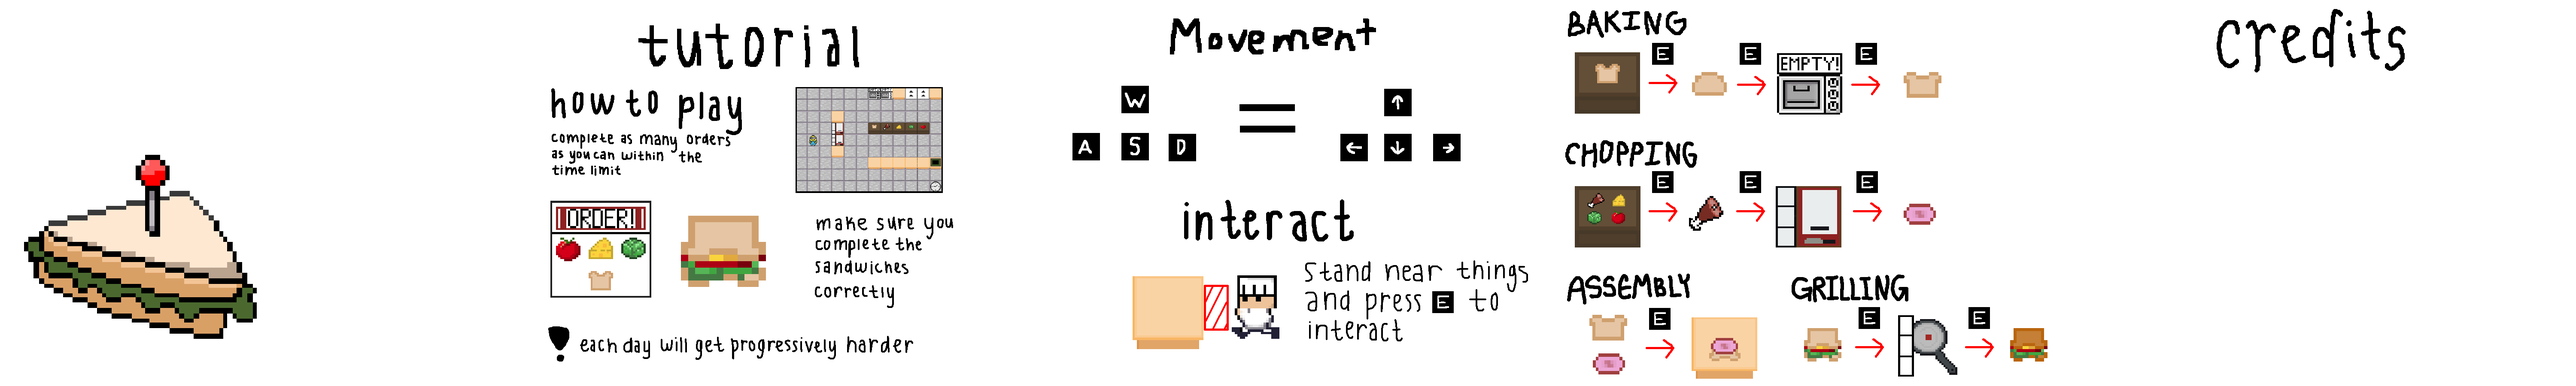
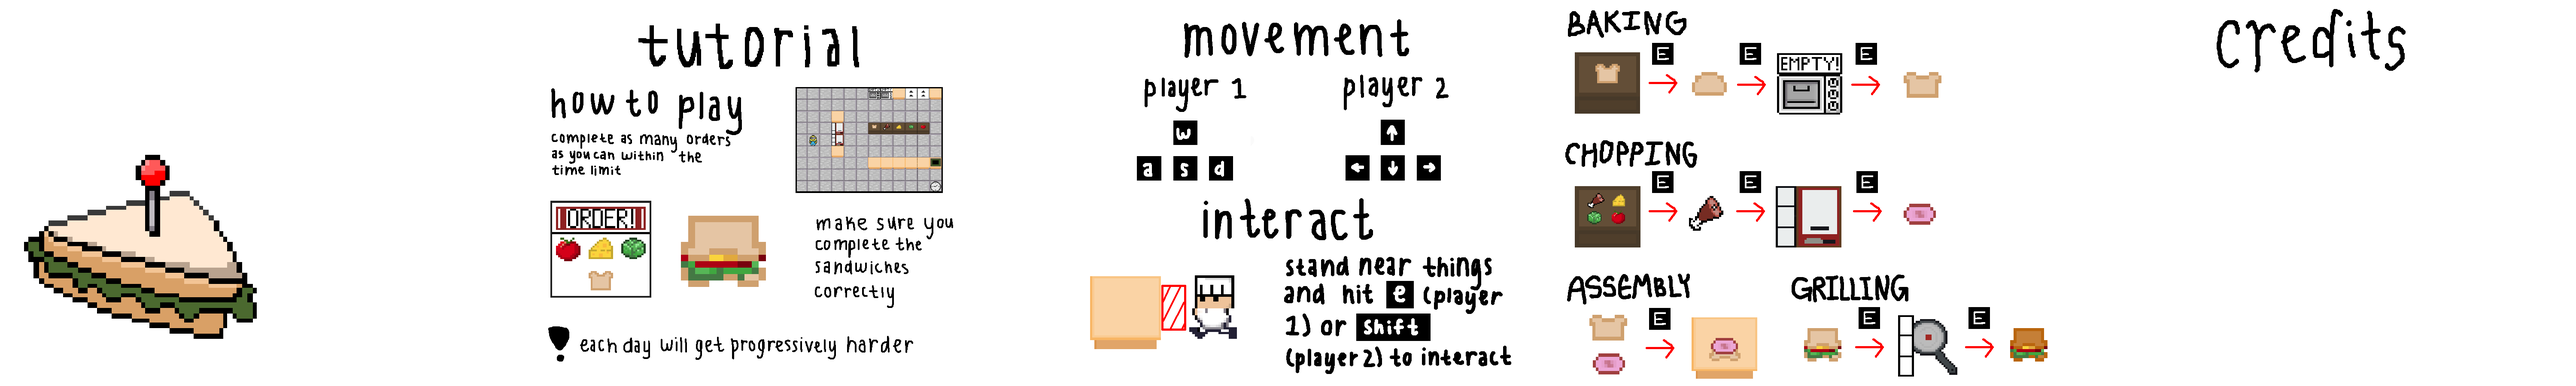
Map changes + updated tutorial + hitbox test
(1) Added a counter to Day3 map
(2) Added barrier collisions to Day4-5
(3) Fixed ketchup/mustard locations on (4) Day5
(5) Added class to draw collision & interact rectangles for testing
(6) Updated menu spritesheet with new tutorial

forgot to say this on previous commit -all appliances can now be interacted with in all directions

diff --git a/core/src/com/mygdx/game/DayScreen.java b/core/src/com/mygdx/game/DayScreen.java
@@ -21,6 +21,7 @@ import com.mygdx.game.appliance.*;
 import com.mygdx.game.holdable.Holdable;
 import com.mygdx.game.holdable.Ingredient;
 
+import java.awt.*;
 import java.text.DecimalFormat;
 import java.util.Iterator;
 
@@ -46,24 +47,21 @@ public class DayScreen implements Screen {
     static final int tileWidth = screenWidth / numWidthTiles;
     static final int tileHeight = screenHeight / numHeightTiles;
 
-    DayState dayState;
+    private DayState dayState;
 
-    OrthographicCamera camera;
+    private OrthographicCamera camera;
     private TiledMap tiledMap;
     private TiledMapRenderer tiledMapRenderer;
 
-    Player player, playerTwo;
+    private Player player, playerTwo;
     private boolean pressE, pressShift;
     private Array<Appliance> appliances;
 
     // for drawing orders
-    Texture breadTex = new Texture(Gdx.files.internal("Ingredients/breadSlice.png"));
-    Texture hamTex = new Texture(Gdx.files.internal("Ingredients/ham.png"));
-    Texture cheeseTex = new Texture(Gdx.files.internal("Ingredients/cheese.png"));
-    Texture lettuceTex = new Texture(Gdx.files.internal("Ingredients/lettuce.png"));
-    Texture tomatoTex = new Texture(Gdx.files.internal("Ingredients/tomato.png"));
+    private Texture orderTex, breadTex, hamTex, cheeseTex, lettuceTex, tomatoTex;
 
-    Texture orderTex;
+    // testing
+    private static HitboxDrawer hitboxDrawer;
 
     exampleMusic bgMusic;
 
@@ -89,14 +87,20 @@ public class DayScreen implements Screen {
                 appliances = getDay5Apps();
                 break;
         }
-        orderTex = new Texture(Gdx.files.internal("Orders/Sprite-Order_Blank.png"));
 
         camera = new OrthographicCamera();
         camera.setToOrtho(false, numWidthTiles, numHeightTiles);
         camera.update();
 
         tiledMap = new TmxMapLoader().load(dayState.mapFile);
-        tiledMapRenderer = new OrthogonalTiledMapRenderer(tiledMap, 1 / 32f); // unit scale is probably wrong
+        tiledMapRenderer = new OrthogonalTiledMapRenderer(tiledMap, 1 / 32f); // unit scale is probably wrong\
+
+        orderTex = new Texture(Gdx.files.internal("Orders/Sprite-Order_Blank.png"));
+        breadTex = new Texture(Gdx.files.internal("Ingredients/breadSlice.png"));
+        hamTex = new Texture(Gdx.files.internal("Ingredients/ham.png"));
+        cheeseTex = new Texture(Gdx.files.internal("Ingredients/cheese.png"));
+        lettuceTex = new Texture(Gdx.files.internal("Ingredients/lettuce.png"));
+        tomatoTex = new Texture(Gdx.files.internal("Ingredients/tomato.png"));;
 
         /**
          * The following music was used for this media project:
@@ -192,6 +196,8 @@ public class DayScreen implements Screen {
                 return true;
             }
         }); // there may be a better way to do input, but this functions
+
+        hitboxDrawer = new HitboxDrawer(camera, player, playerTwo, appliances);
     }
 
     @Override
@@ -285,13 +291,17 @@ public class DayScreen implements Screen {
         pressE = false;
         pressShift = false;
 
+        // draw hitboxes
+        hitboxDrawer.drawCollision();
+        hitboxDrawer.drawInteraction();
+
         // draw screen
         game.batch.begin();
-        player.draw(game.batch); // player
-        playerTwo.draw(game.batch);
         for (Appliance app : appliances) { // appliances
             app.draw(game.batch);
         }
+        player.draw(game.batch); // player
+        playerTwo.draw(game.batch);
 
         // draw order paper
         drawOrder(game.batch);
@@ -343,12 +353,12 @@ public class DayScreen implements Screen {
             app.dispose();
         }
 
+        orderTex.dispose();
         breadTex.dispose();
         hamTex.dispose();
         cheeseTex.dispose();
         lettuceTex.dispose();
         tomatoTex.dispose();
-        orderTex.dispose();
 
         bgMusic.dispose();
     }
@@ -372,7 +382,6 @@ public class DayScreen implements Screen {
     @Override
     public void resume() {}
 
-    // putting this mess down here
     public Array<Appliance> getDay1Apps() {
         Array<Appliance> apps = new Array<Appliance>();
 
@@ -432,6 +441,7 @@ public class DayScreen implements Screen {
         Array<Appliance> apps = new Array<Appliance>();
 
         apps.add(new Counter(11, 8)); // top right counter
+        apps.add(new Counter(3, 4)); // left counter
         apps.add(new Counter(6, 2)); // bottom counters
         for (int i = 0; i < 2; i++) {
             apps.add(new Counter(9 + i, 2));
@@ -450,8 +460,8 @@ public class DayScreen implements Screen {
         apps.add(new ServingWindow(9, 8, this.dayState)); // serving windows (2x1)
         apps.add(new ChoppingBoard(3, 6)); // top cutting board
         apps.add(new ChoppingBoard(3, 5)); // top cutting board
-        apps.add(new FryingPan(3, 4)); // top frying pan
-        apps.add(new FryingPan(3, 3)); // bottom frying pan
+        apps.add(new FryingPan(3, 3)); // top frying pan
+        apps.add(new FryingPan(3, 2)); // bottom frying pan
         apps.add(new KetchupBottle(7, 2)); // ketchup
         apps.add(new MustardBottle(8, 2)); // mustard
         apps.add(new Trash(11, 2)); // trash
@@ -463,8 +473,9 @@ public class DayScreen implements Screen {
         Array<Appliance> apps = new Array<Appliance>();
 
         apps.add(new Counter(11, 8)); // top right counter
-        apps.add(new Counter(6, 2)); // bottom left counter
-        apps.add(new Counter(10, 2)); // bottom right counter
+        apps.add(new Counter(6, 2)); // bottom counters
+        apps.add(new Barrier(9, 2));
+        apps.add(new Counter(10, 2));
 
         apps.add(new Crate(4, 8, Holdable.Type.bread)); // bread container
         apps.add(new Crate(5, 8, Holdable.Type.wheatBread)); // wheat bread container
@@ -475,14 +486,20 @@ public class DayScreen implements Screen {
         apps.add(new Crate(8, 5, Holdable.Type.tomato)); // tomato container
         apps.add(new Crate(9, 5, Holdable.Type.minionBread)); // minion bread container
 
+        apps.add(new Barrier(7, 8)); // left toaster
         apps.add(new Toaster(8, 8)); // right toaster
         apps.add(new ServingWindow(9, 8, this.dayState)); // serving windows (2x1)
         apps.add(new ChoppingBoard(2, 6)); // top cutting board
         apps.add(new ChoppingBoard(2, 5)); // top cutting board
         apps.add(new FryingPan(2, 4)); // top frying pan
+        apps.add(new Barrier(2, 3)); // bottom frying pan
         apps.add(new KetchupBottle(7, 2)); // ketchup
         apps.add(new MustardBottle(8, 2)); // mustard
         apps.add(new Trash(11, 2)); // trash
+
+        apps.add(new Barrier(10, 6)); // banana peels
+        apps.add(new Barrier(11, 4));
+        apps.add(new Barrier(9, 2));
 
         return apps;
     }
@@ -511,11 +528,20 @@ public class DayScreen implements Screen {
         apps.add(new ChoppingBoard(1, 4)); // bottom cutting board
         apps.add(new FryingPan(1, 3)); // top frying pan
         apps.add(new Barrier(1, 2)); // bottom frying pan
-        apps.add(new KetchupBottle(7, 1)); // ketchup
-        apps.add(new MustardBottle(8, 1)); // mustard
+        apps.add(new KetchupBottle(6, 1)); // ketchup
+        apps.add(new MustardBottle(7, 1)); // mustard
         apps.add(new Trash(10, 1)); // trash
 
-        // fire
+        apps.add(new Barrier(0, 8, 12, 1)); // fire border
+        apps.add(new Barrier(11, 0, 1, 9));
+        apps.add(new Barrier(0, 0, 12, 1));
+        apps.add(new Barrier(0, 0, 1, 9));
+
+        apps.add(new Barrier(2, 6)); // fire
+        apps.add(new Barrier(9, 4));
+        apps.add(new Barrier(5, 3));
+        apps.add(new Barrier(10, 3));
+        apps.add(new Barrier(3, 2));
 
         return apps;
     }

diff --git a/core/src/com/mygdx/game/appliance/HitboxDrawer.java b/core/src/com/mygdx/game/appliance/HitboxDrawer.java
@@ -1,0 +1,57 @@
+package com.mygdx.game.appliance;
+
+import com.badlogic.gdx.graphics.Camera;
+import com.badlogic.gdx.graphics.glutils.ShapeRenderer;
+import com.badlogic.gdx.graphics.glutils.ShapeRenderer.ShapeType;
+import com.badlogic.gdx.utils.Array;
+import com.mygdx.game.Player;
+
+public class HitboxDrawer {
+
+    private ShapeRenderer sr;
+
+    private Player player, playerTwo;
+    private Array<Appliance> appliances;
+
+    public HitboxDrawer(Camera camera) {
+        sr = new ShapeRenderer();
+        //sr.setProjectionMatrix(camera.combined);
+    }
+
+    public HitboxDrawer(Camera camera, Player player, Player playerTwo, Array<Appliance> appliances) {
+        this(camera);
+        this.player = player;
+        this.playerTwo = playerTwo;
+        this.appliances = appliances;
+    }
+
+    public void drawCollision() {
+        sr.setColor(0.1f, 1f, 0.3f, 1f);
+        sr.begin(ShapeRenderer.ShapeType.Line);
+
+        sr.rect(player.getBoundingRectangle().x, player.getBoundingRectangle().y, player.getBoundingRectangle().width, player.getBoundingRectangle().height);
+        sr.rect(playerTwo.getBoundingRectangle().x, playerTwo.getBoundingRectangle().y, playerTwo.getBoundingRectangle().width, playerTwo.getBoundingRectangle().height);
+
+        for(Appliance app : appliances) {
+            sr.rect(app.getCollisionRegion().x, app.getCollisionRegion().y, app.getCollisionRegion().width, app.getCollisionRegion().height);
+        }
+
+        sr.end();
+    }
+
+    public void drawInteraction() {
+        sr.setColor(1.0f, 0, 1.0f, 1.0f);
+        sr.begin(ShapeType.Line);
+
+        sr.rect(player.getInteractRectangle().x, player.getInteractRectangle().y, player.getInteractRectangle().width, player.getInteractRectangle().height);
+        sr.rect(playerTwo.getInteractRectangle().x, playerTwo.getInteractRectangle().y, playerTwo.getInteractRectangle().width, playerTwo.getInteractRectangle().height);
+
+        sr.setColor(1.0f, 0, 0, 1.0f);
+        for(Appliance app : appliances) {
+            sr.rect(app.getInteractRegion().x, app.getInteractRegion().y, app.getInteractRegion().width, app.getInteractRegion().height);
+            sr.rect(app.getInteractRegion2().x, app.getInteractRegion2().y, app.getInteractRegion2().width, app.getInteractRegion2().height);
+        }
+
+        sr.end();
+    }
+}

diff --git a/core/src/com/mygdx/game/appliance/ServingWindow.java b/core/src/com/mygdx/game/appliance/ServingWindow.java
@@ -25,8 +25,9 @@ public class ServingWindow extends Appliance {
         super(new Texture(Gdx.files.internal("Appliances/ServingWindow.png")), x, y, true);
         this.day = day;
 
-        this.collisionRegion = new Rectangle(x * width, y * height, width * 2, height);
-        this.interactRegion = new Rectangle(x * width + width/4f, y * height - height/2f, width*2f, height*2f); // vert
+        this.collisionRegion = new Rectangle(x * this.width, y * this.height, this.width * 2, this.height);
+        this.interactRegion = new Rectangle(x * this.width + this.width/4f, y * this.height - this.height/2f,
+                this.width*1.5f, this.height*2f); // vert
 
         this.texture.setWrap(Texture.TextureWrap.Repeat, Texture.TextureWrap.Repeat);
         this.sound = Gdx.audio.newSound(Gdx.files.internal("Sounds/Ring.mp3"));

diff --git a/core/src/com/mygdx/game/appliance/Barrier.java b/core/src/com/mygdx/game/appliance/Barrier.java
@@ -1,12 +1,19 @@
 package com.mygdx.game.appliance;
 
 import com.badlogic.gdx.graphics.g2d.Batch;
+import com.badlogic.gdx.math.Rectangle;
 import com.mygdx.game.holdable.Holdable;
 
 public class Barrier extends Appliance {
 
     public Barrier(int x, int y) {
         super(null, x, y);
+    }
+
+    public Barrier(int x, int y, int width, int height) {
+        super(null, x, y);
+
+        this.collisionRegion = new Rectangle(x * this.width, y * this.height, width * this.width, height * this.height);
     }
 
     @Override

diff --git a/core/src/com/mygdx/game/DayState.java b/core/src/com/mygdx/game/DayState.java
@@ -17,9 +17,9 @@ public class DayState {
 
     final int wantedOrders;
     public Array<Order> orders;
-    public int orderIndex; // current, I think
+    public int orderIndex; // current
 
-    static final float maxTime = 120;
+    static final float maxTime = 150;
     float currentTime;
 
     final Optional<DayState> nextDay;
